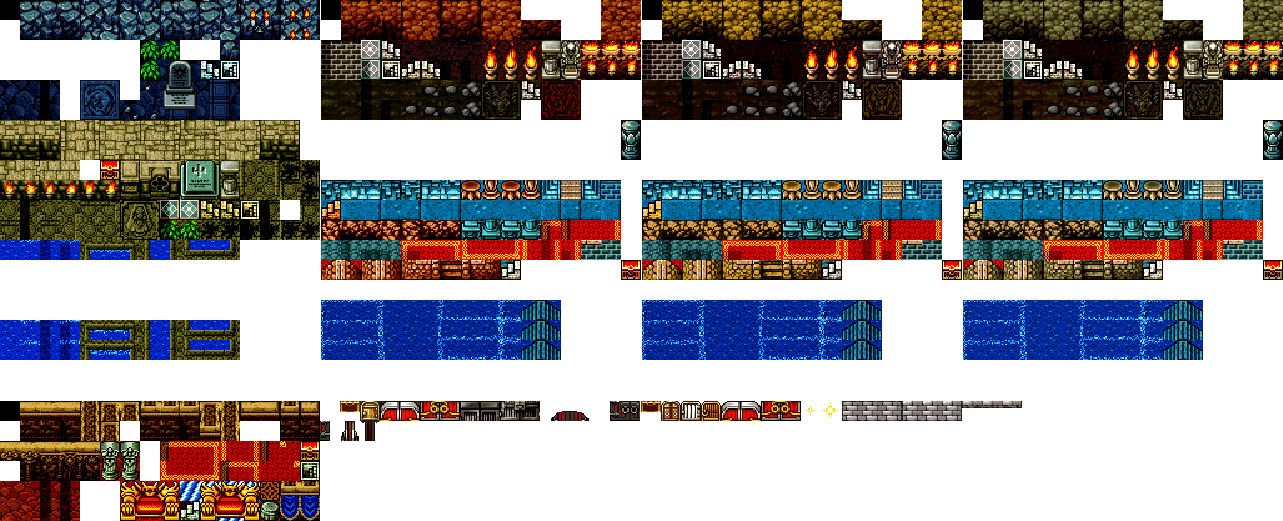
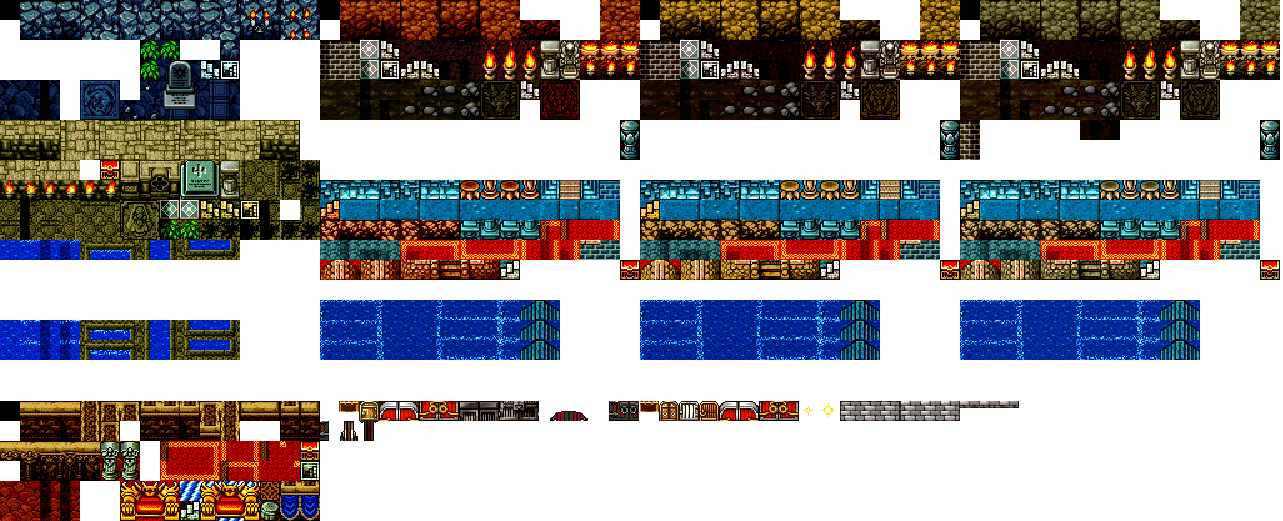
added one new final dungeon

diff --git a/lib/utils/json_parser/parser.c b/lib/utils/json_parser/parser.c
@@ -53,46 +53,3 @@ void free_double_tab(int ***tab)
     }
     free(tab);
 }
-
-int parser(char **argv)
-{
-    char *file_data = create_file_buffer(argv[1]);// Retourne le contenu du fichier dont le path est argv[1]
-
-    if (file_data[0] == 'E' && str_len(file_data) == 1)
-        return (84);
-
-    char *layers_str = get_key_data(file_data, "layers");// Retourne la valeur correspondant a la clef "layers" dans le fichier json
-    char **layers = get_value_tab(layers_str, 4);// Transforme le string de la valeur en tableau si s'en est un
-    //int **map_one = contruct_map_from_layer(layers[0]);// Transforme une valeur de type [layers:data] en tableau de int
-
-
-    char **tiles_layers = get_layers_by_ids((int []){1, 2, 0}, layers);// Selectionne les layers coorespondant aux ids donnés en paramètres
-    int ***tiles_tab = construct_map_tab_from_layers(tiles_layers);// Contruit une liste de tableau de int à partir d'une valeur de type [layers]
-    
-    char **objs_layers = get_layers_by_ids((int []){4, 0}, layers);
-    int ***objs_tab = construct_map_tab_from_layers(objs_layers);
-
-    char **obs_layer = get_layers_by_ids((int []){3, 0}, layers);
-    char *obstacles_str = get_key_data(obs_layer[0], "objects");
-    char **obs_tab = get_value_tab(obstacles_str, 4);
-    
-    //csfml_loop(tiles_tab, objs_tab, obs_tab);// {beta} Fonction en rapport avec la map, layers pour csfml
-
-
-
-
-    free_tab(obs_tab);
-    free(obstacles_str);
-    free_tab(obs_layer);
-
-    free_double_tab(objs_tab);
-    free_tab(objs_layers);
-
-    free_double_tab(tiles_tab);
-    free_tab(tiles_layers);
-    free_tab(layers);
-
-    free(layers_str);
-    free(file_data);
-    return (0);
-}

diff --git a/src/scene/overworld/init_overworld.c b/src/scene/overworld/init_overworld.c
@@ -97,12 +97,13 @@ int *objs_ids, int *obs_ids)
 
 void init_maps_interactions(overworld_t *world)
 {
-    interaction_box_t **inter = malloc(sizeof(interaction_box_t *) * 4);
+    interaction_box_t **inter = malloc(sizeof(interaction_box_t *) * 7);
 
     inter[0] = create_interaction_box((sfFloatRect){0, 200, 150, 150}, 0, 1, 2);
     inter[1] = create_interaction_box((sfFloatRect){0, 150, 150, 150}, 0, 0, 1);
-    inter[2] = create_interaction_box((sfFloatRect){150, 750, 300, 400}, 0, -1, 2);
-    inter[3] = NULL;
+    inter[2] = create_interaction_box((sfFloatRect){150, 750, 300, 400}, 0, -1, 1);
+    inter[3] = create_interaction_box((sfFloatRect){0, 0, 1550, 1240}, 0, -1, 0);
+    inter[4] = NULL;
     world->maps_interaction_boxes = inter;
 }
 
@@ -119,7 +120,7 @@ void init_maps(overworld_t *world)
     maps[0]->tile_size = 20;
     maps[0]->offset = (sfVector2f){0, 0};
     maps[0]->zoom = 2.0f;
-    init_interactions_boxes_indexs(maps[0], (int []){1, 0});
+    init_interactions_boxes_indexs(maps[0], (int []){1, 4, 0});
     init_layers_id(maps[0], (int []){1, 0}, (int []){0}, (int []){2, 0});
     maps[1] = malloc(sizeof(map_setup_t));
     maps[1]->file = "assets/maps/world.json";
@@ -129,7 +130,7 @@ void init_maps(overworld_t *world)
     maps[1]->tile_size = 20;
     maps[1]->offset = (sfVector2f){0, 0};
     maps[1]->zoom = 1.0f;
-    init_interactions_boxes_indexs(maps[1], (int []){2, 3, 0});
+    init_interactions_boxes_indexs(maps[1], (int []){2, 3});
     init_layers_id(maps[1], (int []){1, 0}, (int []){0}, (int []){2, 0});
 
     maps[2] = NULL;

diff --git a/include/game/map.h b/include/game/map.h
@@ -101,13 +101,13 @@ void destroy_and_free_tile_layer(tile_layer_t *layer);
 void destroy_and_free_obstacles(obstacle_t **obs);
 void destroy_objects(object_t **obj);
 void destroy_and_free_object_layer(object_layer_t *layer);
-void draw_tiles(map_t *map, sfRenderWindow *window, int *layers_to_print, sfView *camera);
+void draw_tiles(map_t *map, sfRenderWindow *window, int *layers, sfView *c);
 void draw_objects(map_t *map, sfRenderWindow *window, int *layers_to_print);
 void draw_obstacles(map_t *map, sfRenderWindow *window);
 void create_tile_tab(map_t *map, int ***layers_tab, char *tile_set);
 void create_object_tab(map_t *map, int ***objs_tab);
 void create_obtacles_tab(char **obj_tab, map_t *map);
-int is_object_displayed(int i, int y, object_layer_t *layer, sfRenderWindow *window);
+int is_object_displayed(int i, int y, object_layer_t *lay, sfRenderWindow *w);
 sfVector2f *is_tile_displayed(tile_layer_t *layer, int i, int y);
 
 void create_window(sfRenderWindow *window);

diff --git a/include/game/collision.h b/include/game/collision.h
@@ -32,10 +32,11 @@ typedef struct interaction_box_s {
     int zone_act;
 } interaction_box_t;
 
-collision_box_t *create_collision_box(sfFloatRect rec, int update_on_default, int is_blocking);
-int check_collision_ahead(obstacle_t **map_obs, npc_t **npcs, player_t *player, long int delta);
-int block_move_on_collision(player_t *p, npc_t **n, long int d, overworld_t *world);
-int check_interaction_ahead(player_t *player, overworld_t *world, long int delta);
+collision_box_t *create_collision_box(sfFloatRect rec, int upd, int blocking);
+int check_collision_ahead(obstacle_t **ob, npc_t **n, player_t *p, long int d);
+int block_move_on_collision(player_t *p, npc_t **n, long int d, \
+overworld_t *w);
+int check_interaction_ahead(player_t *p, overworld_t *w, long int d);
 interaction_box_t *create_interaction_box(sfFloatRect rec, int is_blocking, \
 int load_zone, int zone_act);
 int is_rectangles_in_collision(sfFloatRect *r_one, sfFloatRect *r_two);

diff --git a/src/game/player/move_player.c b/src/game/player/move_player.c
@@ -38,13 +38,13 @@ static void handle_player_fight(player_t *player, long int delta)
         random_delta = 0;
     }
 
-    if (player->delta_fight >= 3000000) {
+    if (player->delta_fight >= 4500000) {
         player->delta_fight = 0;
-        player->fight = 1;
+        if (player->zone != 0)
+            player->fight = 1;
         return;
     }
     player->delta_fight += delta;
-    printf("delta: %ld\n", player->delta_fight);
 }
 
 int exec_move(player_t *p, sfVector2f pos, int current_annimation, \

diff --git a/lib/components/anim_sprite/anim_sprite_update.c b/lib/components/anim_sprite/anim_sprite_update.c
@@ -31,7 +31,8 @@ static int get_anim_size(sfIntRect *array)
 
 void add_anim_frame(anim_sprite_t *anim, sfIntRect rect)
 {
-    sfIntRect *result = malloc(sizeof(sfIntRect) * (get_anim_size(anim->rect) + 2));
+    int size = get_anim_size(anim->rect);
+    sfIntRect *result = malloc(sizeof(sfIntRect) * (size + 2));
     int i = 0;
     for (; anim->rect[i].height != -9999; i++) {
         result[i] = anim->rect[i];

diff --git a/lib/components/anim_sprite/anim_sprite.c b/lib/components/anim_sprite/anim_sprite.c
@@ -34,7 +34,8 @@ void update_anim_sprite(anim_sprite_t *sprite, long int delta)
 
 void draw_anim_sprite(sfRenderWindow *window, anim_sprite_t *sprite)
 {
-    sfSprite_setTextureRect(sprite->sprite, sprite->rect[sprite->current_count]);
+    int count = sprite->current_count;
+    sfSprite_setTextureRect(sprite->sprite, sprite->rect[count]);
     sfRenderWindow_drawSprite(window, sprite->sprite, 0);
 }
 

diff --git a/src/scene/overworld/input_overworld.c b/src/scene/overworld/input_overworld.c
@@ -12,6 +12,9 @@
 int input_overworld(game_t *game, overworld_t *overworld)
 {
     if (game->event.type == sfEvtKeyPressed) {
+        if (game->event.key.code == sfKeyE) {
+            open_inventory(game->player->inventory);
+        }
         if (overworld->state->dialog && overworld->state->dialog->is_active) {
             update_dialog_line(overworld->state->dialog);
         }

diff --git a/src/game/inventory/inventory.c b/src/game/inventory/inventory.c
@@ -12,6 +12,8 @@ inventory_t *create_inventory(void)
 {
     inventory_t *inv = malloc(sizeof(inventory_t));
     inv->content = malloc(sizeof(case_t*) * INV_SIZE);
+    if (!inv->content)
+        return (0);
     inv->is_open = 0;
     inv->action = 0;
     inv->cursor_index = (sfVector2u) {0, 0};

diff --git a/include/game.h b/include/game.h
@@ -18,7 +18,7 @@
 #include <stdlib.h>
 #include <SFML/Graphics.h>
 
-enum game_state {INTRO_SCREEN = 0, MAIN_MENU = 1, BATTLE = 2, SETTINGS = 3, OVERWORLD = 4};
+enum game_state {INTRO_SCREEN, MAIN_MENU, BATTLE, SETTINGS, OVERWORLD};
 
 typedef struct config_s {
     int framerate;

diff --git a/src/scene/battle/input_battle_screen.c b/src/scene/battle/input_battle_screen.c
@@ -11,7 +11,6 @@
 int input_battle_screen(game_t *game, battle_screen_t *battle)
 {
     int active = 0;
-
     if (battle->attack_gui->is_selected) {
         handle_select_gui(game->event, battle->select_gui);
         battle->select_gui->is_active = 1;

diff --git a/src/scene/overworld/render_overworld.c b/src/scene/overworld/render_overworld.c
@@ -26,7 +26,6 @@ void draw_interaction_boxes(sfRenderWindow *window, map_t *map)
     sfConvexShape_destroy(shape);
 }
 
-
 static void render_map_world(game_t *game, overworld_t *world, long int delta)
 {
     sfRenderWindow_clear(game->window, sfBlack);
